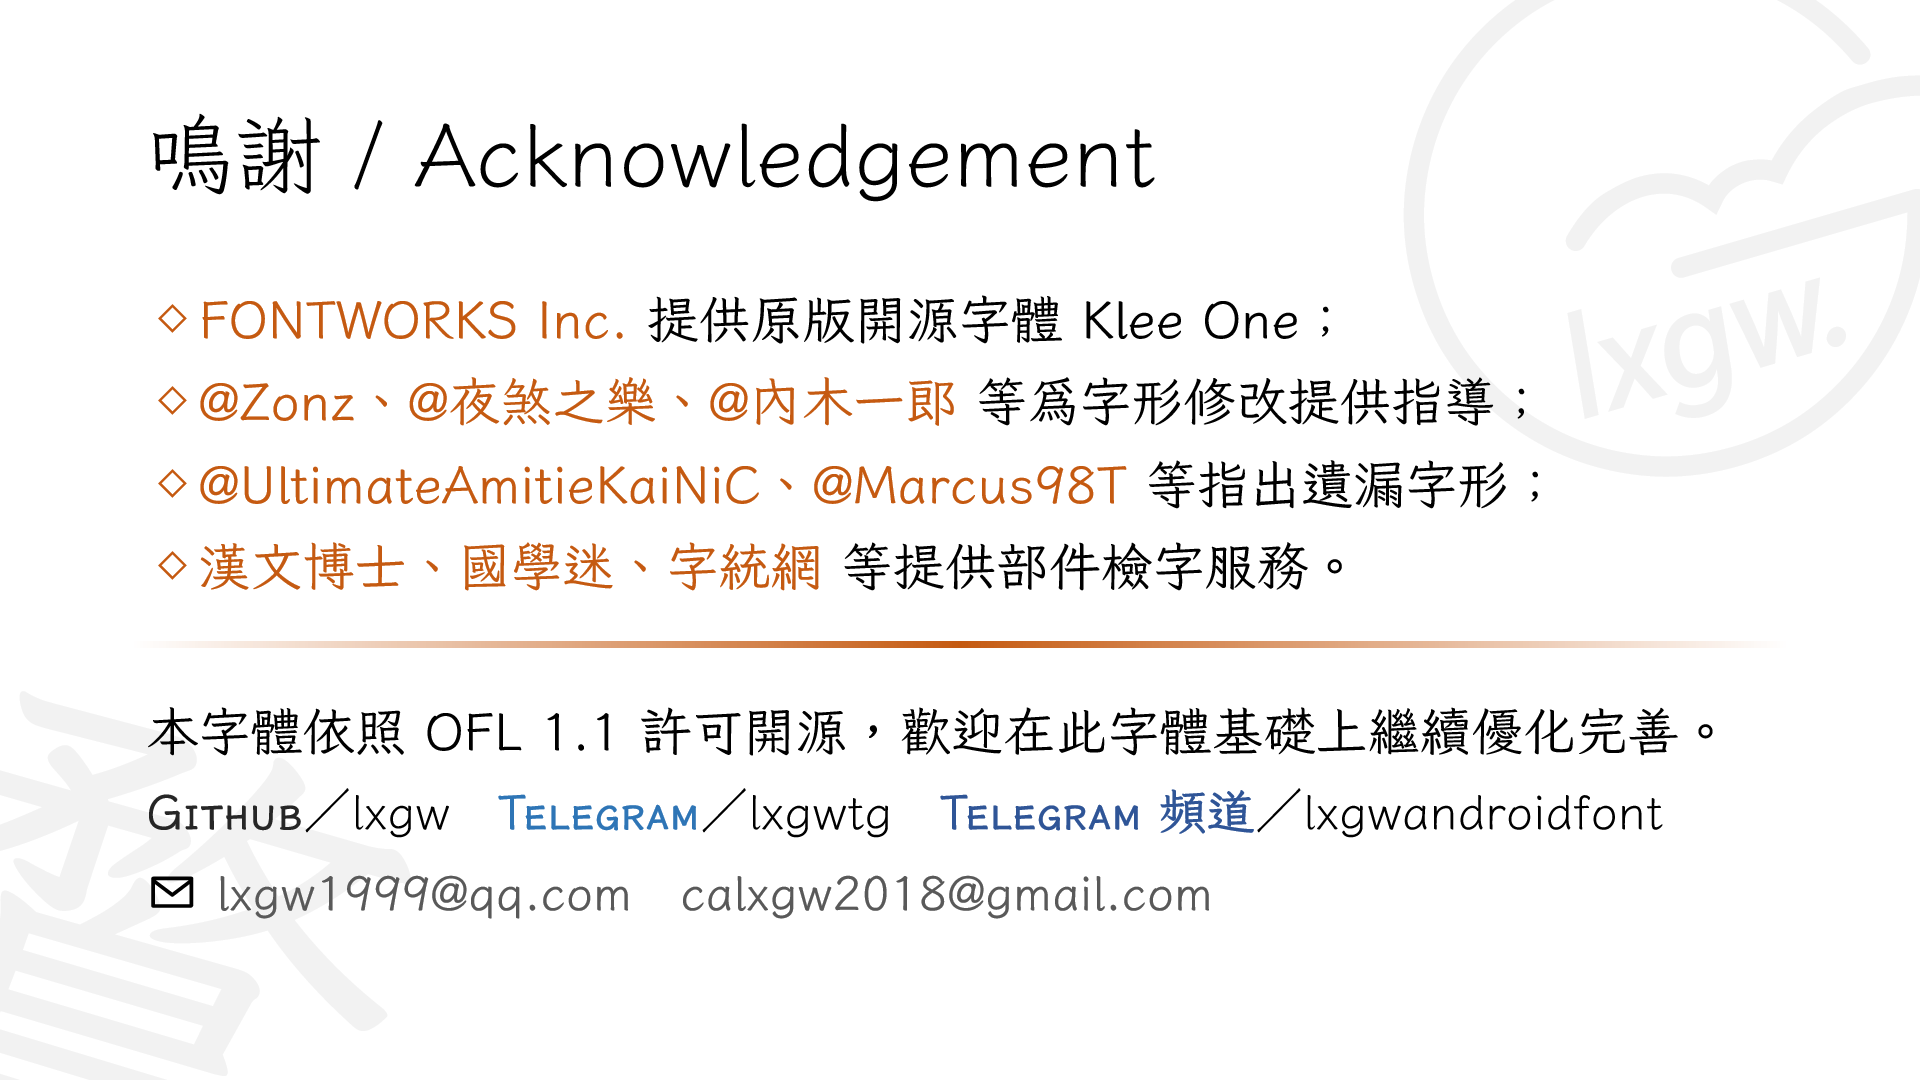
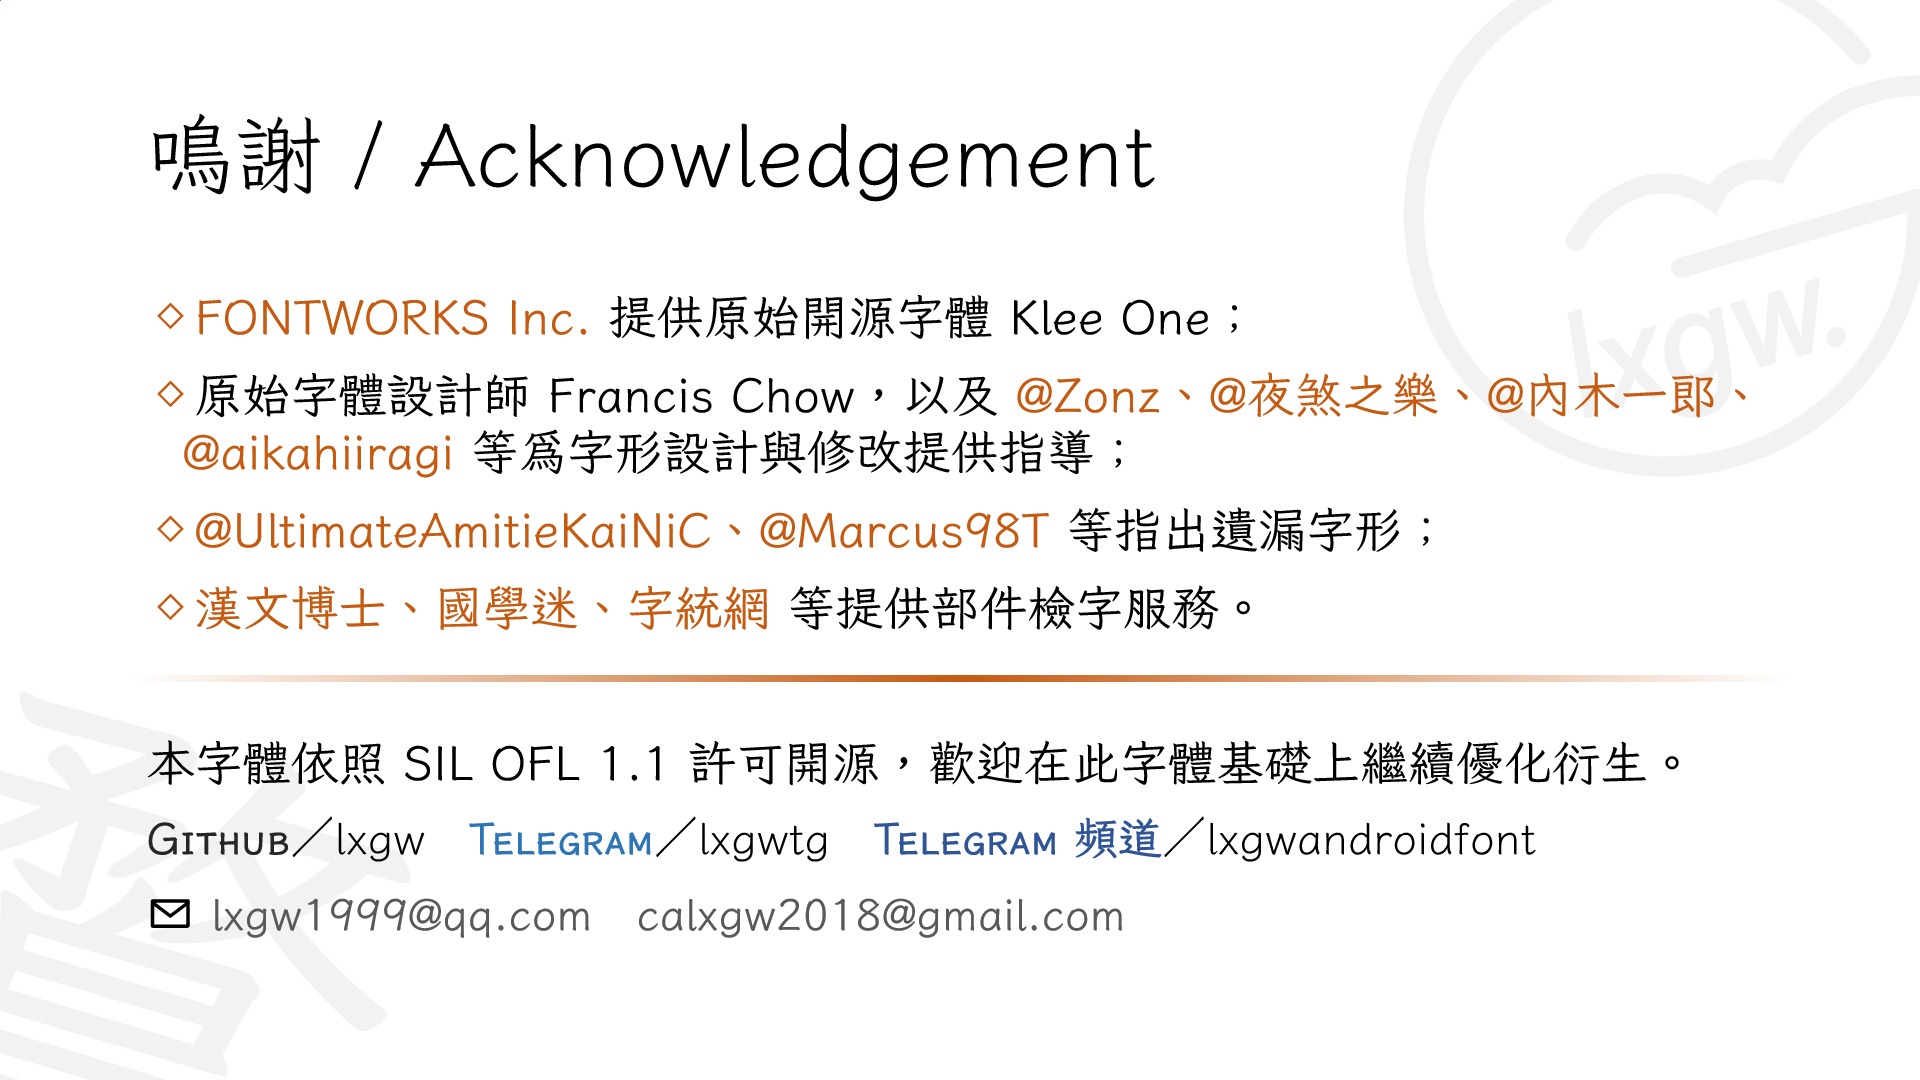
update readme

Changed region(s): [[0.0625, 0.275, 0.9062, 0.8861]]

diff --git a/README.md b/README.md
@@ -71,17 +71,19 @@ The Traditional Chinese Version of LXGW WenKai. 霞鶩文楷繁體中文版。
 ### 限制
 
 - 在製作衍生字型時，字型名稱不可使用原有字型的「保留名稱」。本字型保留名稱「霞鶩」「LXGW」，基於本字型二次衍生的字型，名稱不可出現「霞鶩」或「LXGW」字樣；而在沒有對字型原始碼進行修改的情況下，重新生成的字型，可以繼續使用本字型的保留名稱「霞鶩」「LXGW」。
-- 根據 [SIL Open Font License 1.1](https://scripts.sil.org/OFL) 的規定， **禁止單獨出售字型檔(OTF/TTF檔)的行爲。**
+- 根據 [SIL Open Font License 1.1](https://scripts.sil.org/OFL) 「許可與條件」中第 1 條的規定， **禁止單獨出售字型檔(OTF/TTF檔)的行爲。**
 - 該字型不可在 [SIL Open Font License 1.1](https://scripts.sil.org/OFL) 以外的授權許可下發行。
 
 ## 鳴謝
 
 - [FONTWORKS 株式會社](http://fontworks.co.jp) 提供原版開源字型； [開發者 GitHub 主頁](https://github.com/fontworks-fonts/)
+- 原始字型的設計師 Francis Chow；
+- [@Zonz](https://github.com/Zonz-Ly)、[@內木一郎](https://github.com/SyaoranHinata)、[@夜煞之樂](https://github.com/NightFurySL2001)、[@aikahiiragi](https://github.com/aikahiiragi)、[@UltimateAmitieKaiNiC](https://github.com/UltimateAmitieKaiNiC)、[@Marcus98T](https://github.com/Marcus98T) 等提供指導並指出遺漏字形。
 - [@夜煞之樂](https://github.com/NightFurySL2001) 協助轉換 Klee One 字形。
+- @Georgome、[@Magmeta](https://github.com/Des-Magmeta)、[@Steve-Yuu](https://github.com/Steve-Yuu) 等協助完善字型。
 - [一點字坊「傳承字形標準化文件」](https://github.com/ichitenfont/inheritedglyphs) 提供部分傳承字形部件和筆畫參照。
 - 部分傳承字形與臺標同形或形近的部件借用 [芫荽 / Iansui](https://github.com/ButTaiwan/iansui) 字體。
 - [漢文博士](https://www.cnblogs.com/hanbox/)、[國學迷](http://www.guoxuemi.com/zidian/bujian/)、[字統網](https://zi.tools/)提供部件查字服務。
-- [@Zonz](https://github.com/Zonz-Ly)、[@內木一郎](https://github.com/SyaoranHinata)、[@夜煞之樂](https://github.com/NightFurySL2001)、[@aikahiiragi](https://github.com/aikahiiragi)、[@UltimateAmitieKaiNiC](https://github.com/UltimateAmitieKaiNiC)、[@Marcus98T](https://github.com/Marcus98T) 提供指導並指出遺漏字形。
 
 ## 關注作者
 
@@ -95,6 +97,7 @@ The Traditional Chinese Version of LXGW WenKai. 霞鶩文楷繁體中文版。
 ## 由本字型衍生的字型
 - [皓月楷 & 繁星楷](https://github.com/GuiWonder/MoonStarsKai)
 - [末綺楷書 / Astalia](https://github.com/Ayaginu-Sue/Astalia)
+- [Ｙ式書體 / YshiShuti](https://github.com/Steve-Yuu/YshiShuti)
 
 ## Stargazers over time
 
